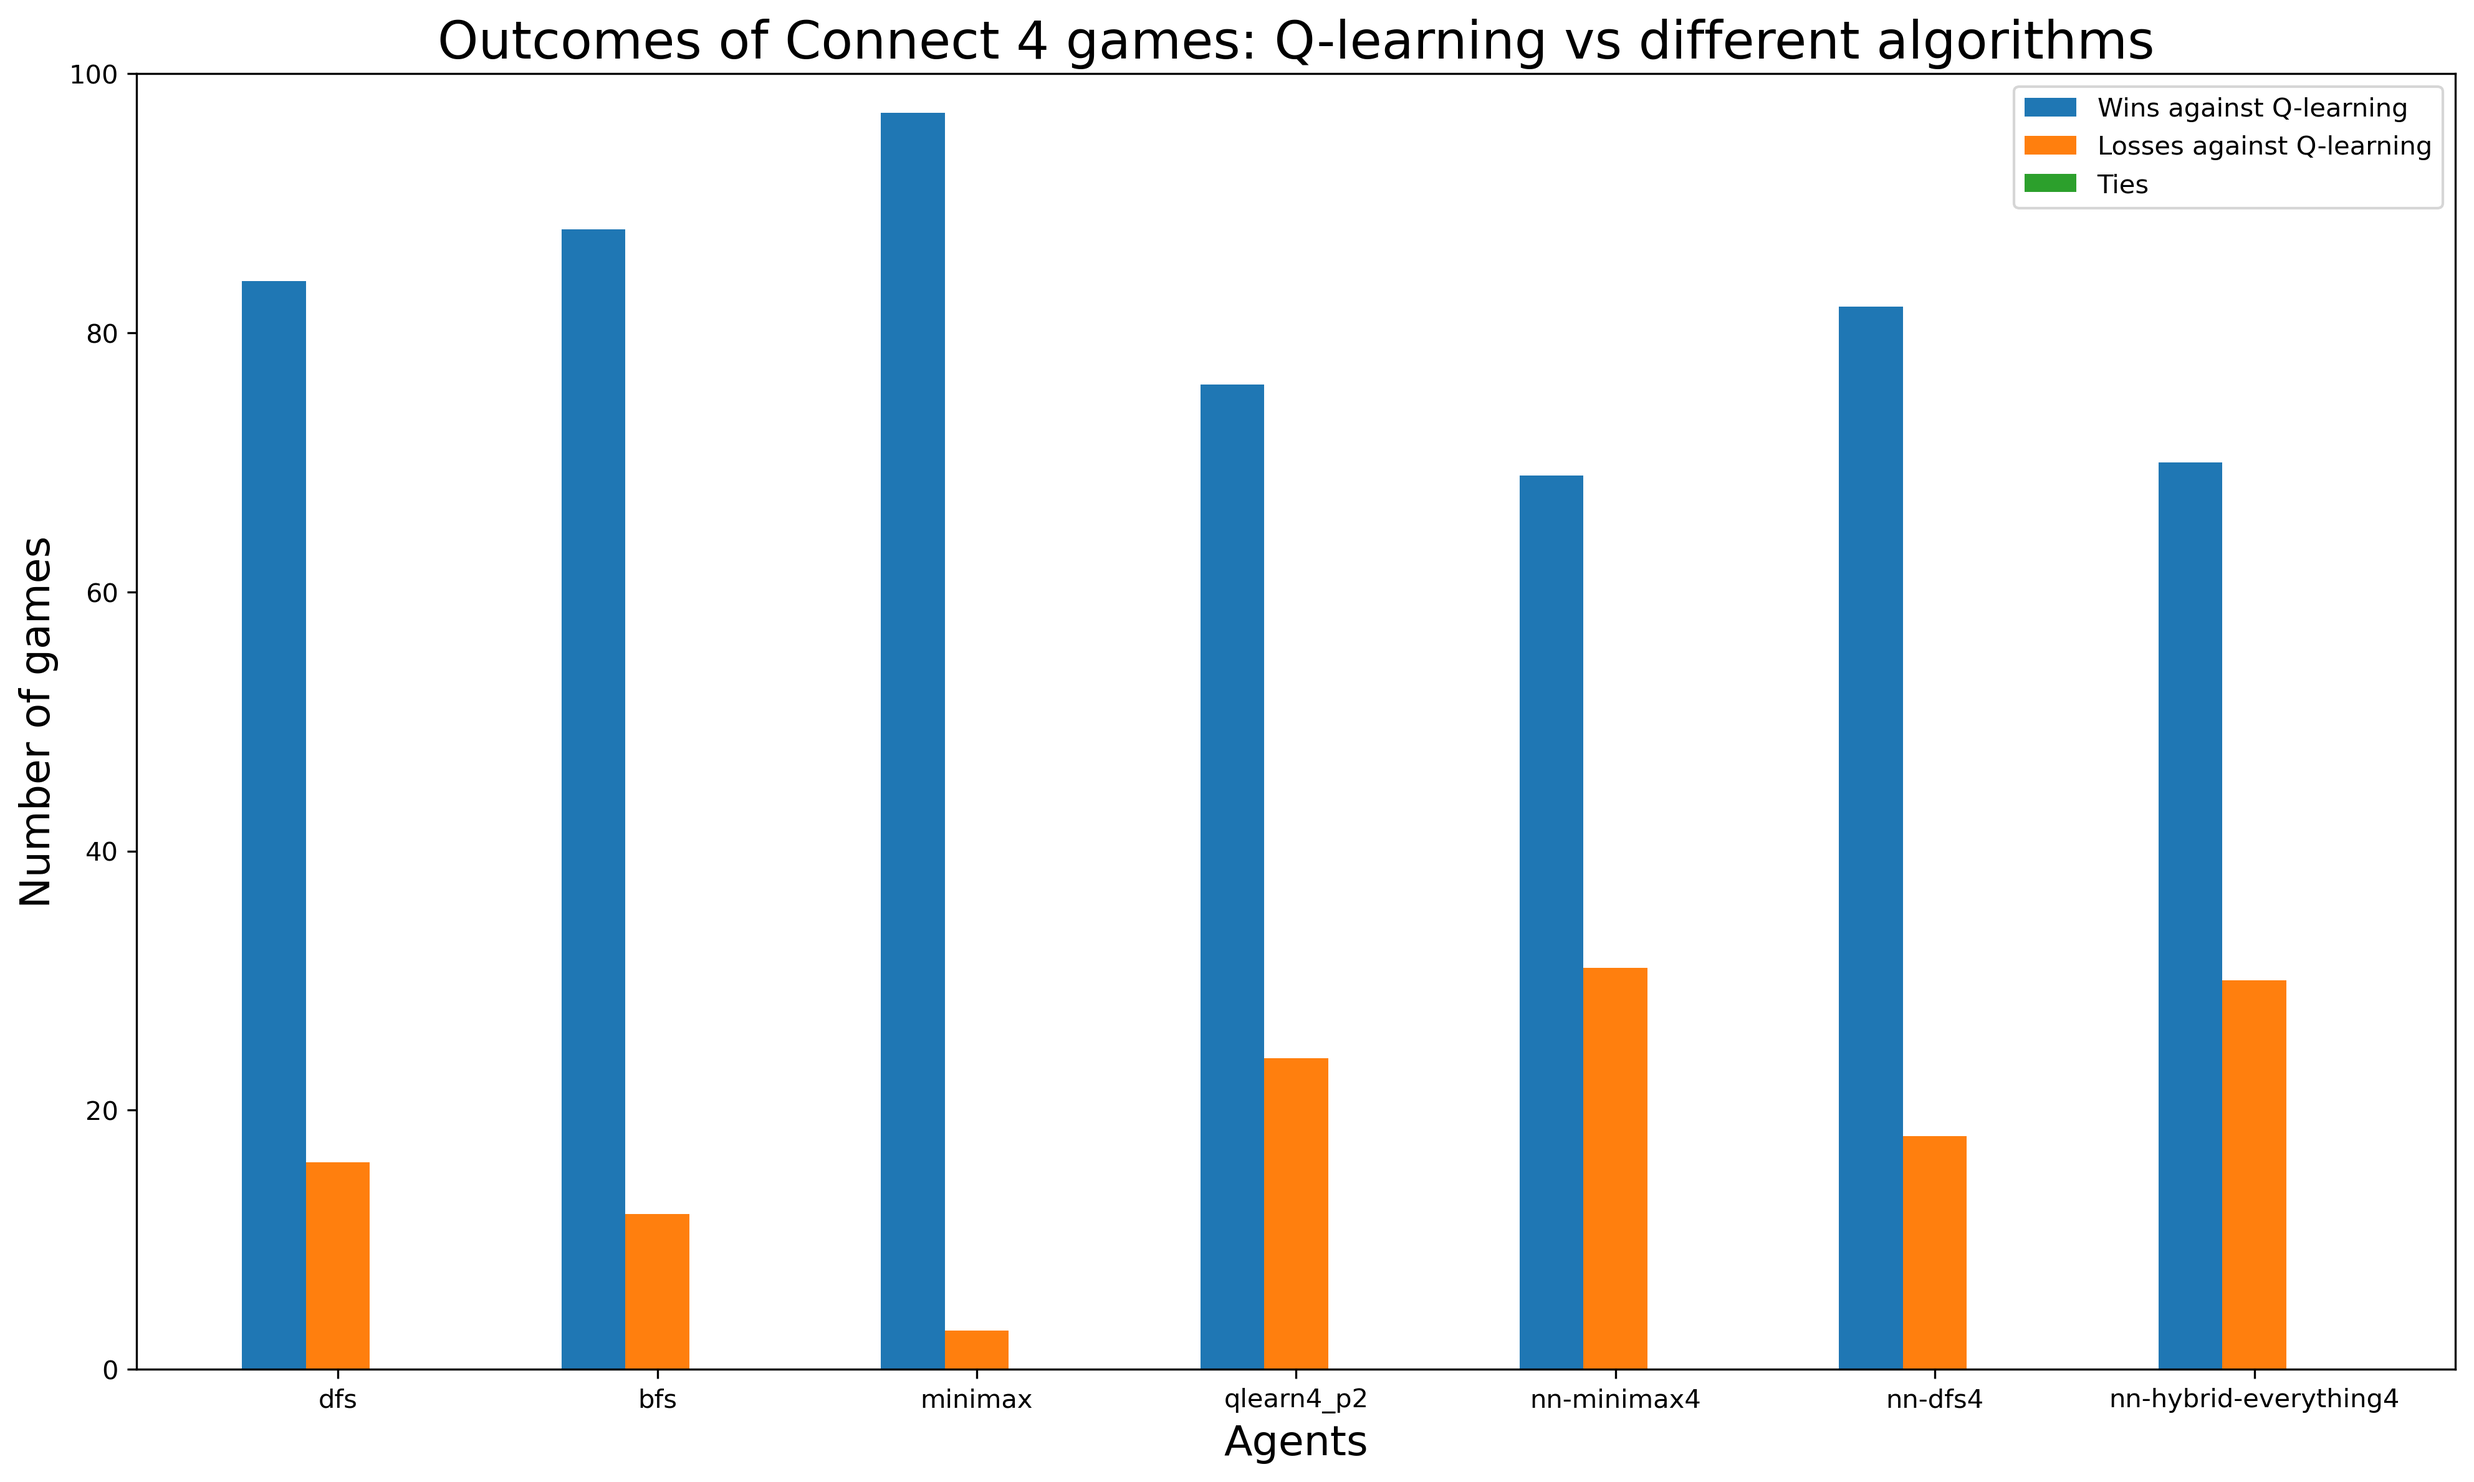
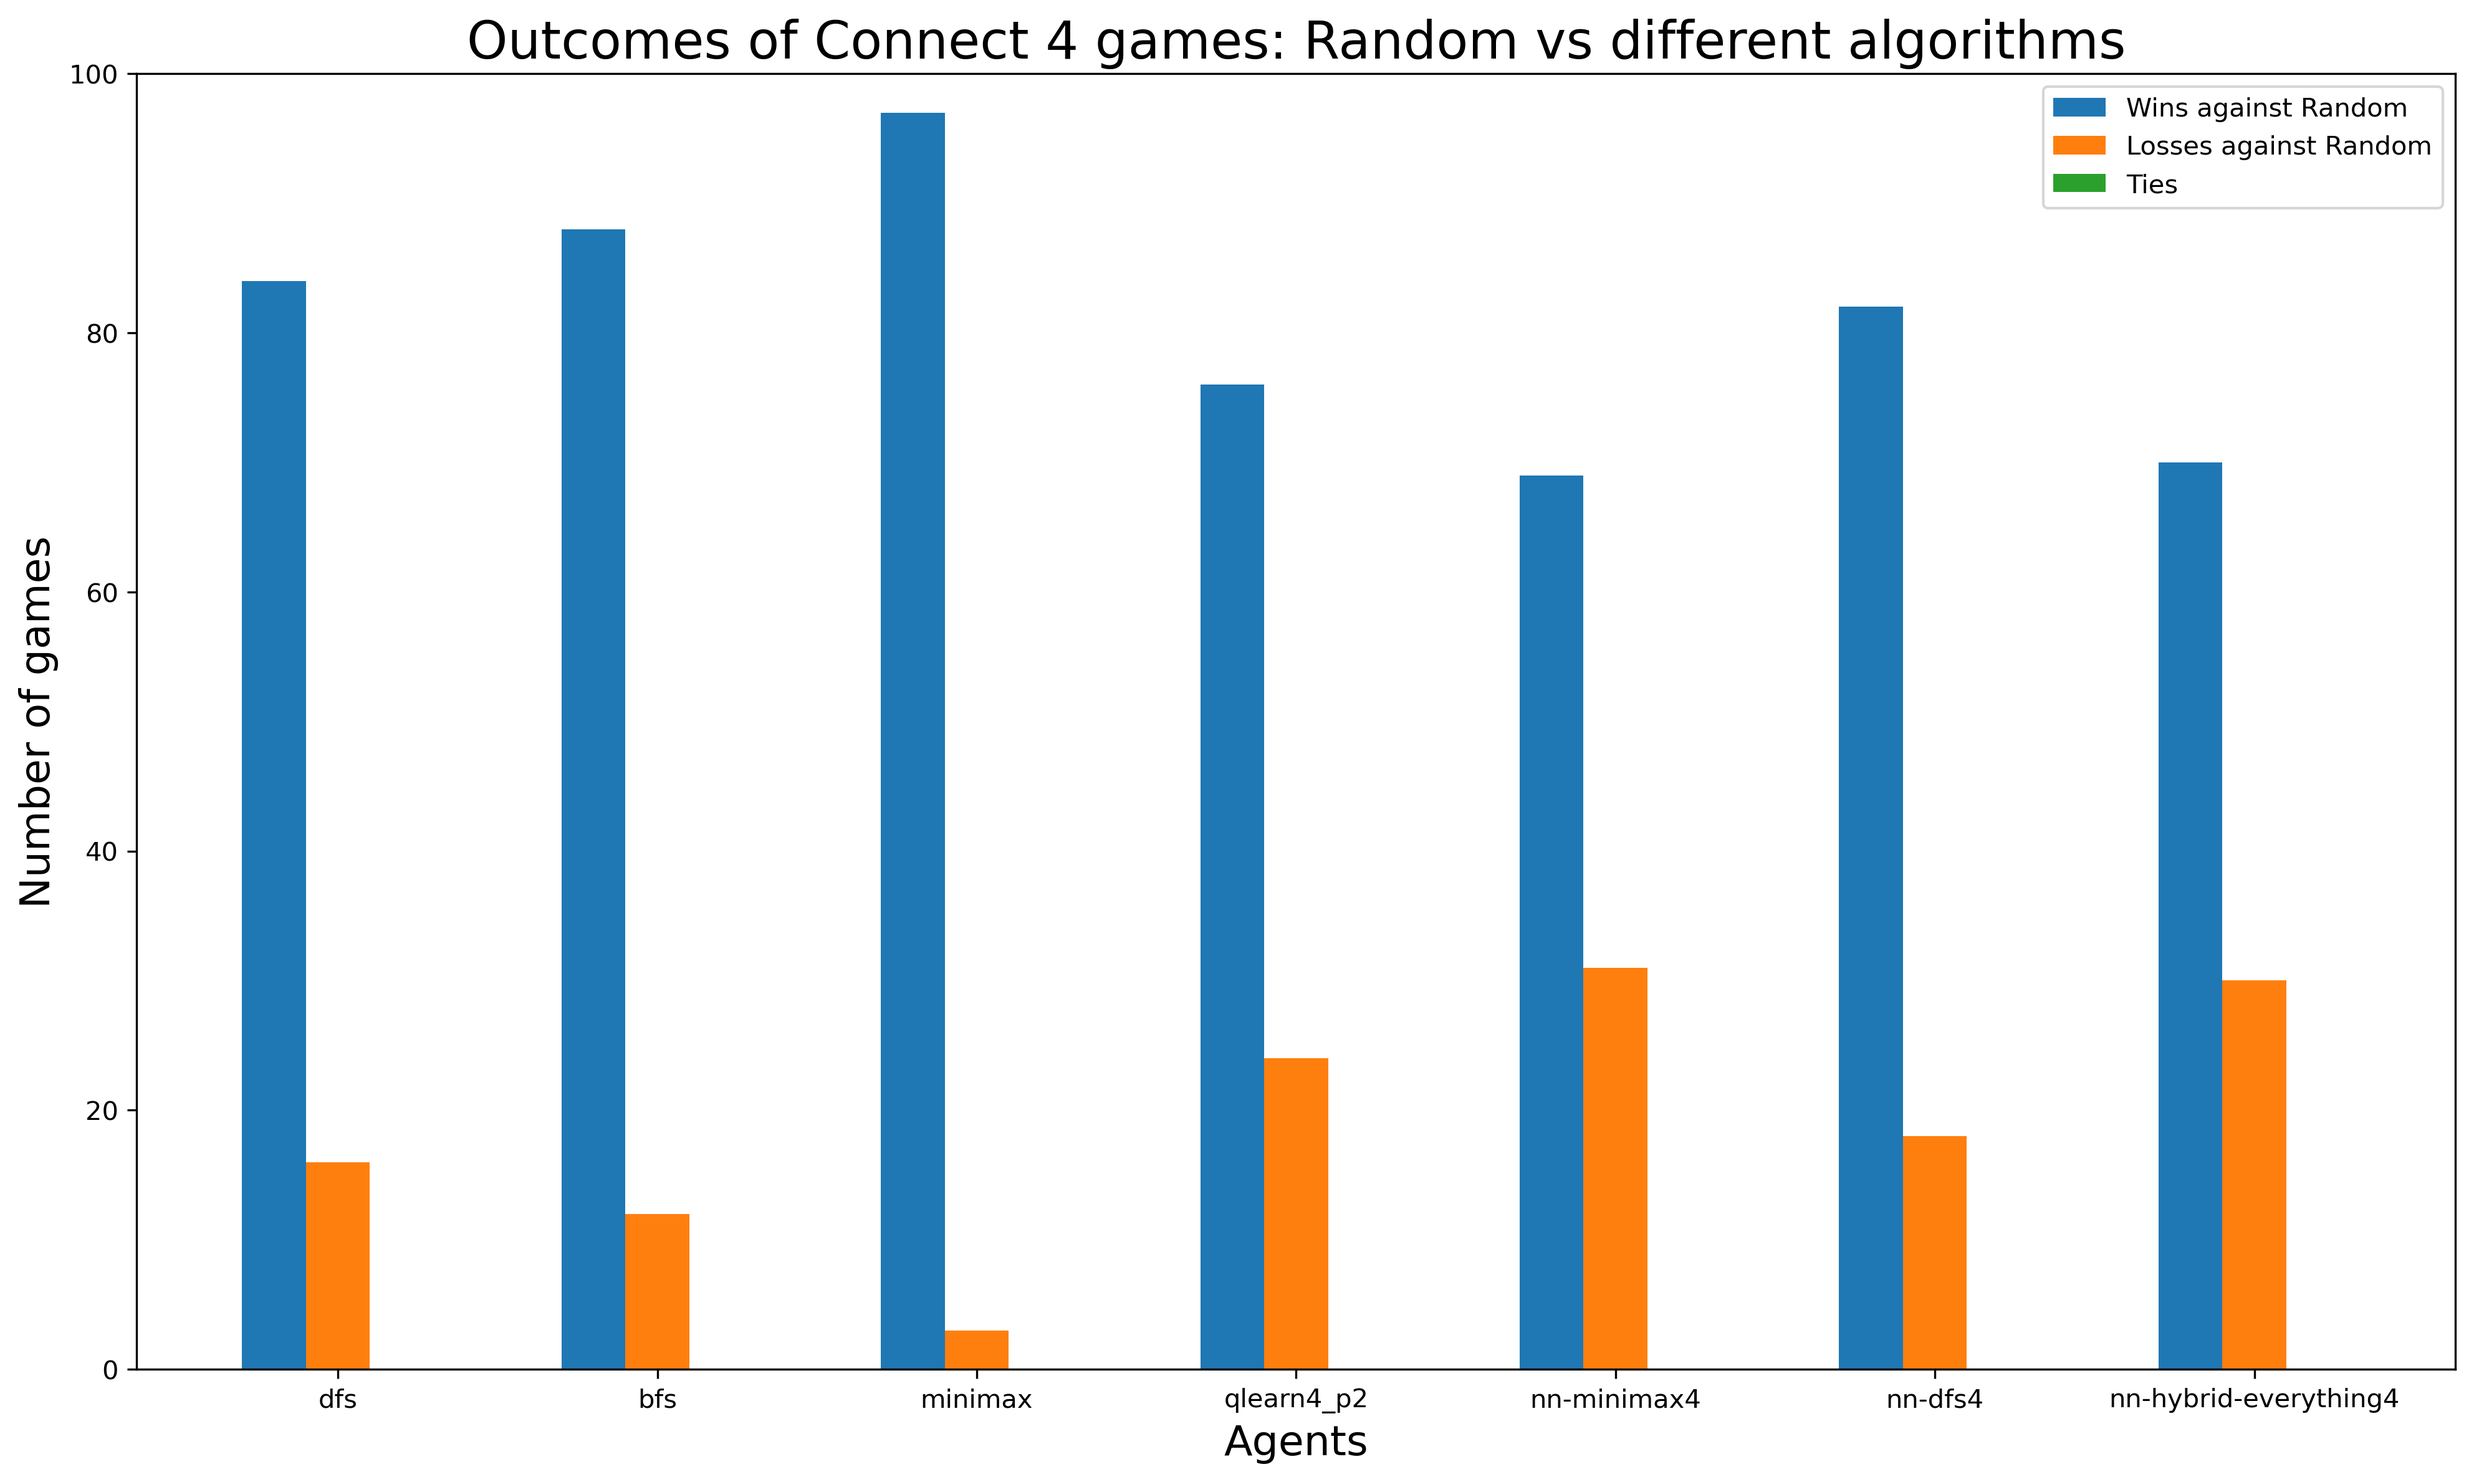
c4 changed

Changed region(s): [[0.1875, 0.0, 0.9685, 0.1556]]

diff --git a/Arena/plotting/plot_data.py b/Arena/plotting/plot_data.py
@@ -5,7 +5,7 @@ plt.rcParams["figure.figsize"] = (16,9)
 
 W = 0.2
 
-AGENT='Q-learning'
+AGENT='Random'
 CONNECT=4
 FILE_NAME="randomall4"
 # /Users/hotshot07/Desktop/DeeperMind/Arena/plot_data/
